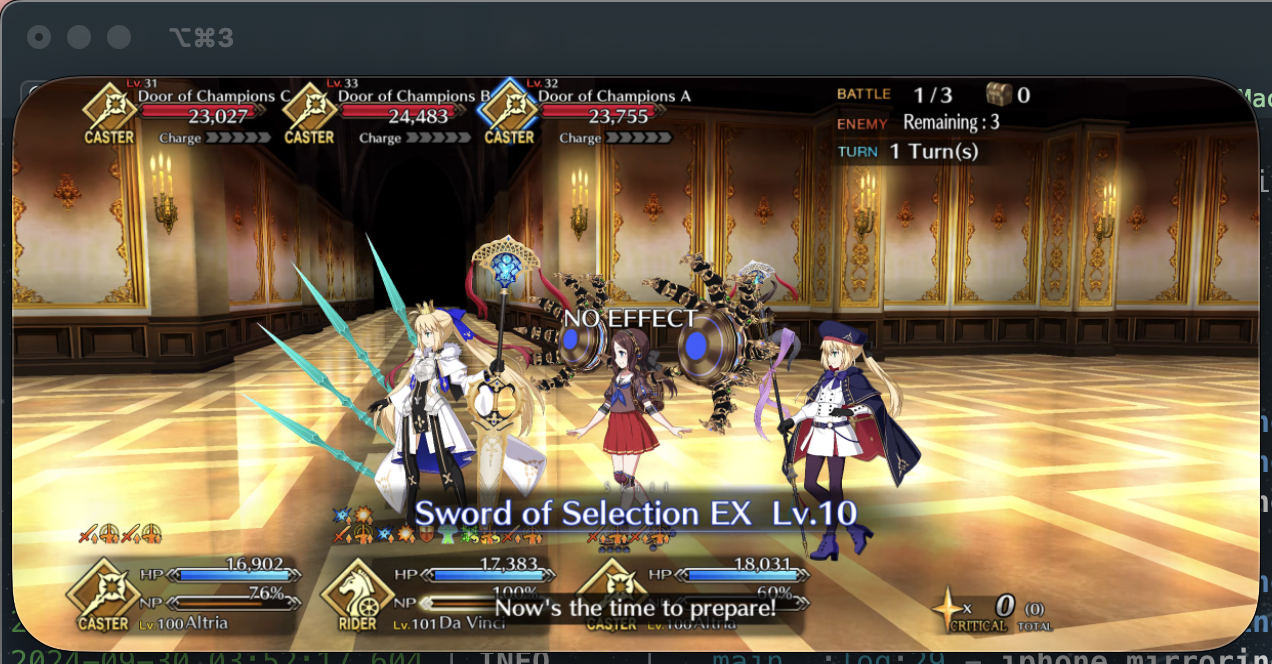
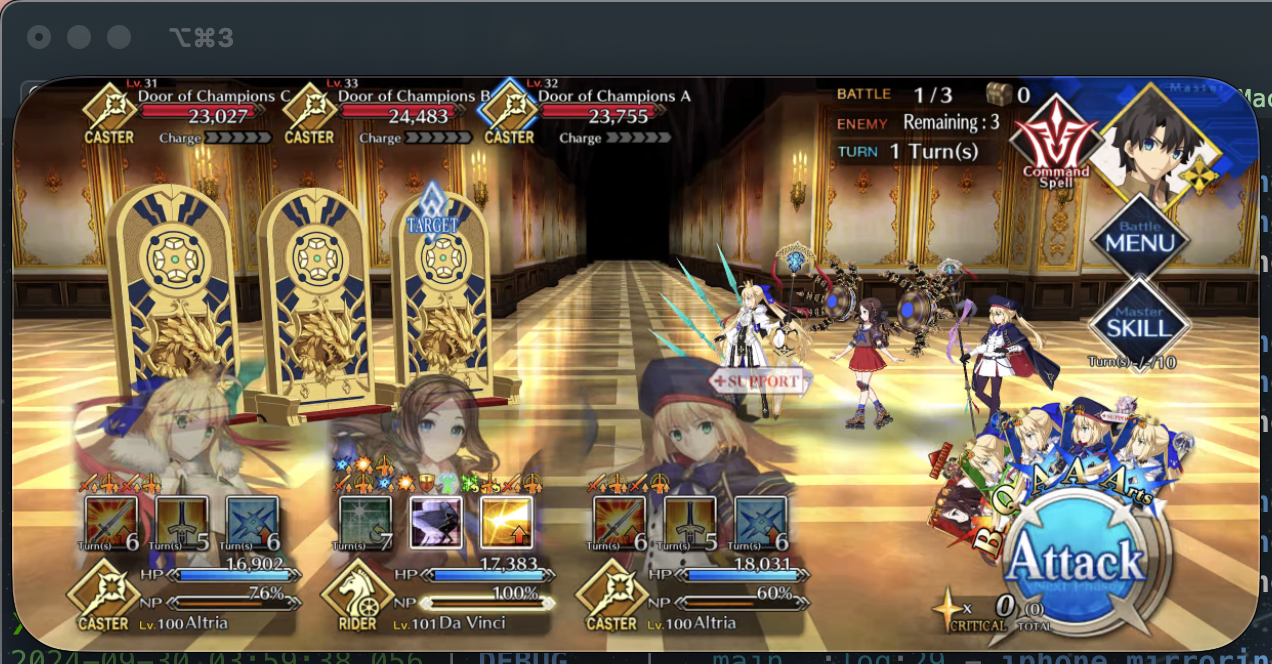
finished master skills too

diff --git a/app.py b/app.py
@@ -238,6 +238,58 @@ def skill_click(general_fields, servant_num, skill_num, servant_select_num=2):
     time.sleep(1)
 
 
+def master_skill_click(general_fields, skill_num, servant_select_num=2):
+    region = general_fields["region"]
+    left, top, width, height = (
+        general_fields["left"],
+        general_fields["top"],
+        general_fields["width"],
+        general_fields["height"],
+    )
+
+    try:
+        loc_master_skill = pag.locateCenterOnScreen(
+            "img/screenshots/master_skill_btn.png", confidence=0.8
+        )
+        pag.moveTo(loc_master_skill.x // 2, loc_master_skill.y // 2)
+    except pag.ImageNotFoundException:
+        pag.moveTo((region[0] + region[2]) * 0.895, (region[1] + region[3]) * 0.55)
+    pag.click()
+
+    pag.moveTo(
+        (region[0] + region[2]) * (0.715 + (0.055 * (skill_num - 1))),
+        (region[1] + region[3]) * 0.54,
+    )
+    pag.click()
+    time.sleep(1)
+
+    target_selectable = False
+    try:
+        loc = pag.locateCenterOnScreen("img/screenshots/skill_select_servant_close_btn.png", confidence=0.8)
+        target_selectable = True
+    except:
+        capture_screenshot(
+            region={"top": top, "left": left, "width": width, "height": height},
+            output_path="img/screenshots/skill_target_selectable_screen.png",
+        )
+        search_words = ["Select", "Target", "Select Target"]
+        search_words_results = [
+            check_text_in_image(
+                "img/screenshots/skill_target_selectable_screen.png", search_word
+            )
+            for search_word in search_words
+        ]
+        if True in search_words_results:
+            target_selectable = True
+
+    if target_selectable:
+        pag.moveTo((region[0] + region[2]) * (0.3 + (0.2 * (servant_select_num - 1))), (region[1] + region[3]) * 0.625)
+        pag.click()
+
+    wait_for_battle_screen(general_fields)
+    time.sleep(1)
+
+
 def action_text(
     general_fields, img_path, text_loc_word, harcoded_screen_percentages, search_words = []):
     region = general_fields["region"]
@@ -576,10 +628,10 @@ def main():
     # except pag.ImageNotFoundException:
     #     action_text(general_fields, "img/screenshots/start_quest.png", "Start Quest", [0.88, 0.9])
 
-    # wait for battle screen to load
-    wait_for_battle_screen(general_fields)
+    # # wait for battle screen to load
+    # wait_for_battle_screen(general_fields)
 
-    # NOTE: SKILL CLICKS FOR EXTREME QP W/ 2x CASTORIA + DA VINCI (RIDER) (Da Vinci (Rider) is in slot 2)
+    # # NOTE: SKILL CLICKS FOR EXTREME QP W/ 2x CASTORIA + DA VINCI (RIDER) (Da Vinci (Rider) is in slot 2)
     # click on a skill
     # skill_click(general_fields, 1, 1)
     # skill_click(general_fields, 1, 2, 2)
@@ -588,6 +640,7 @@ def main():
     # skill_click(general_fields, 3, 1)
     # skill_click(general_fields, 3, 2, 2)
     # skill_click(general_fields, 3, 3, 2)
+    master_skill_click(general_fields, 3, 2)
 
 
 if __name__ == "__main__":
